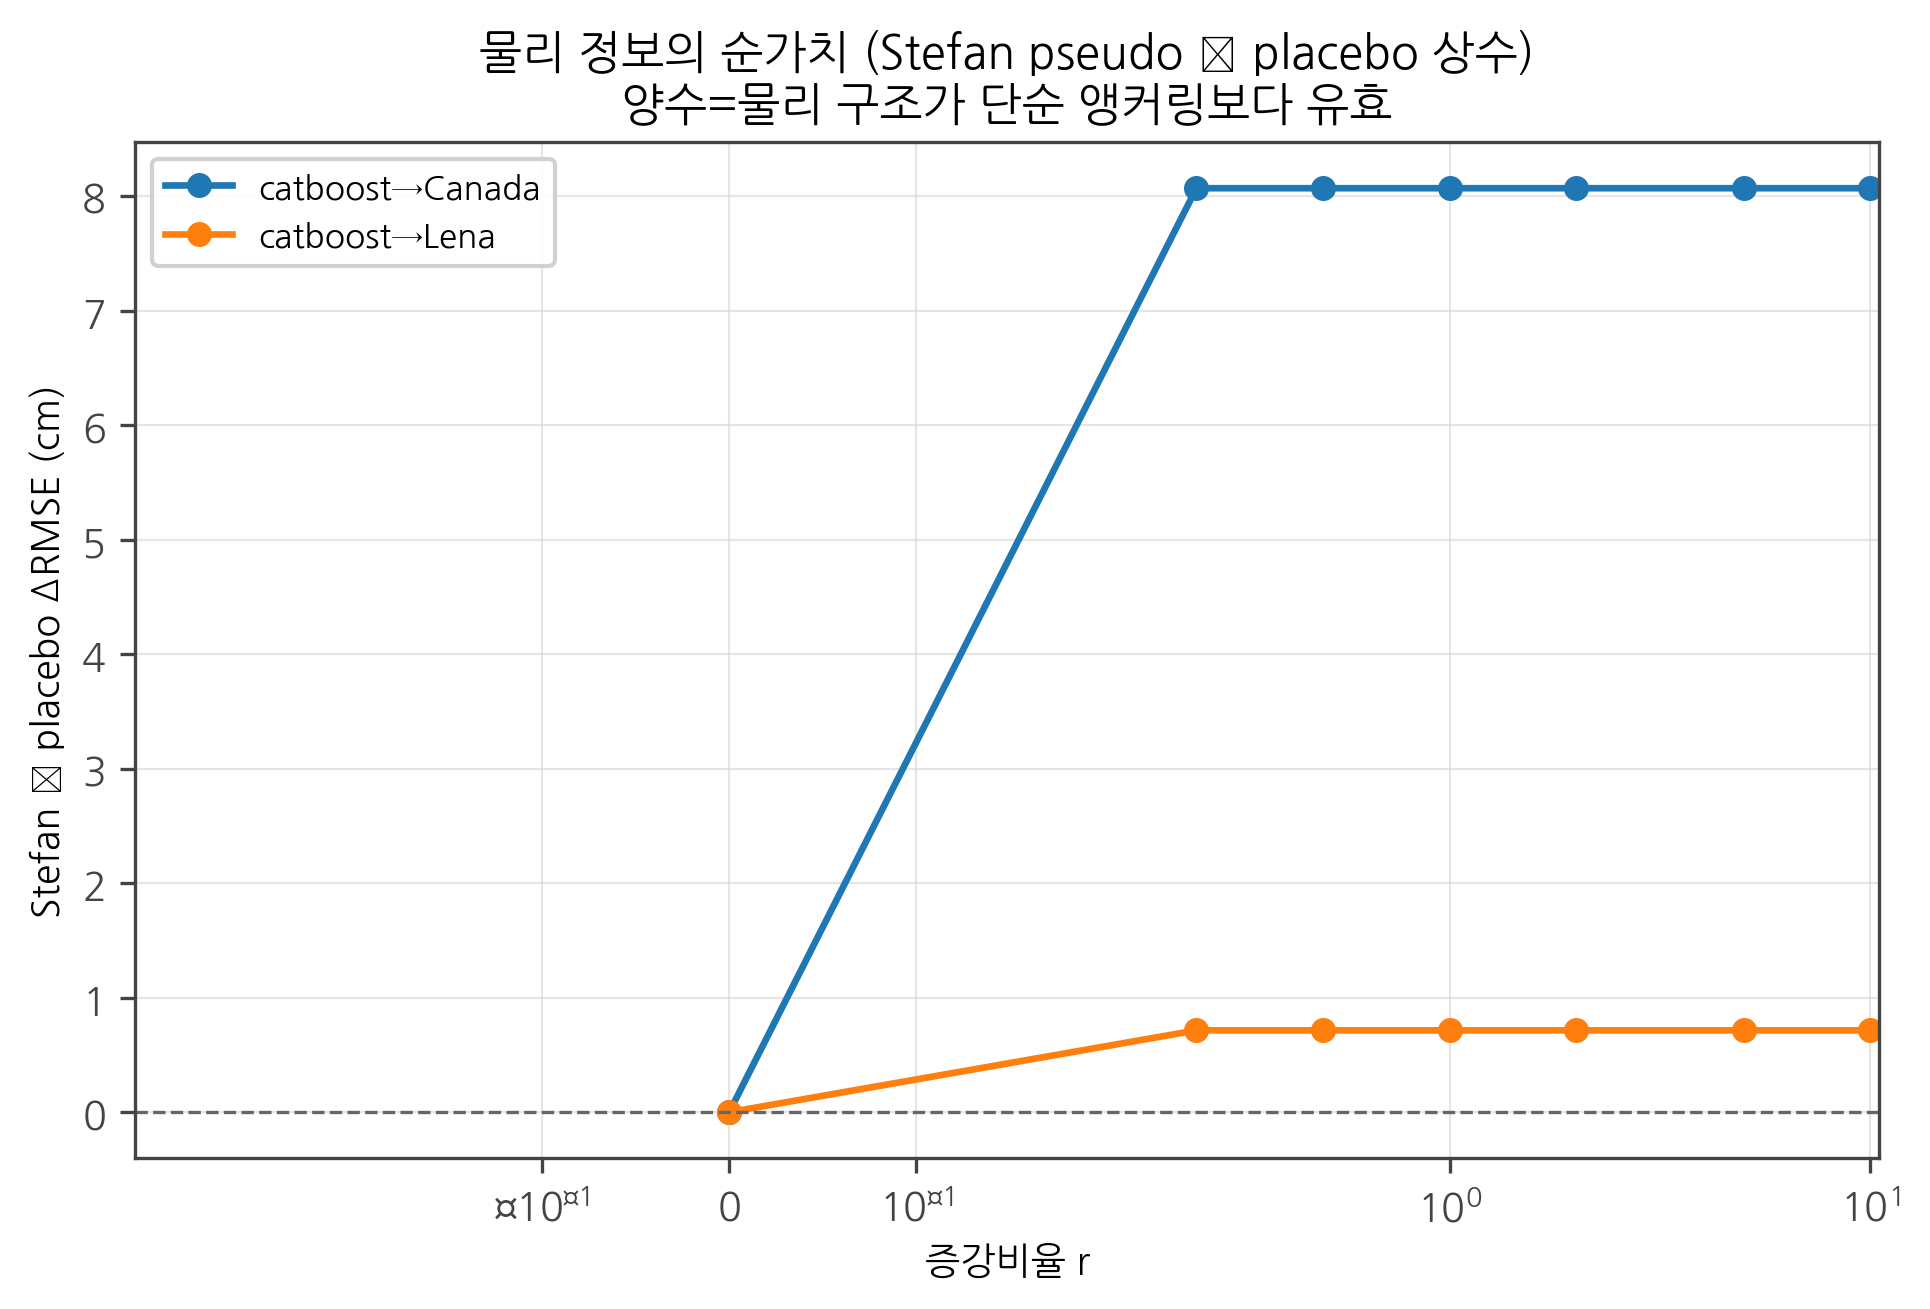
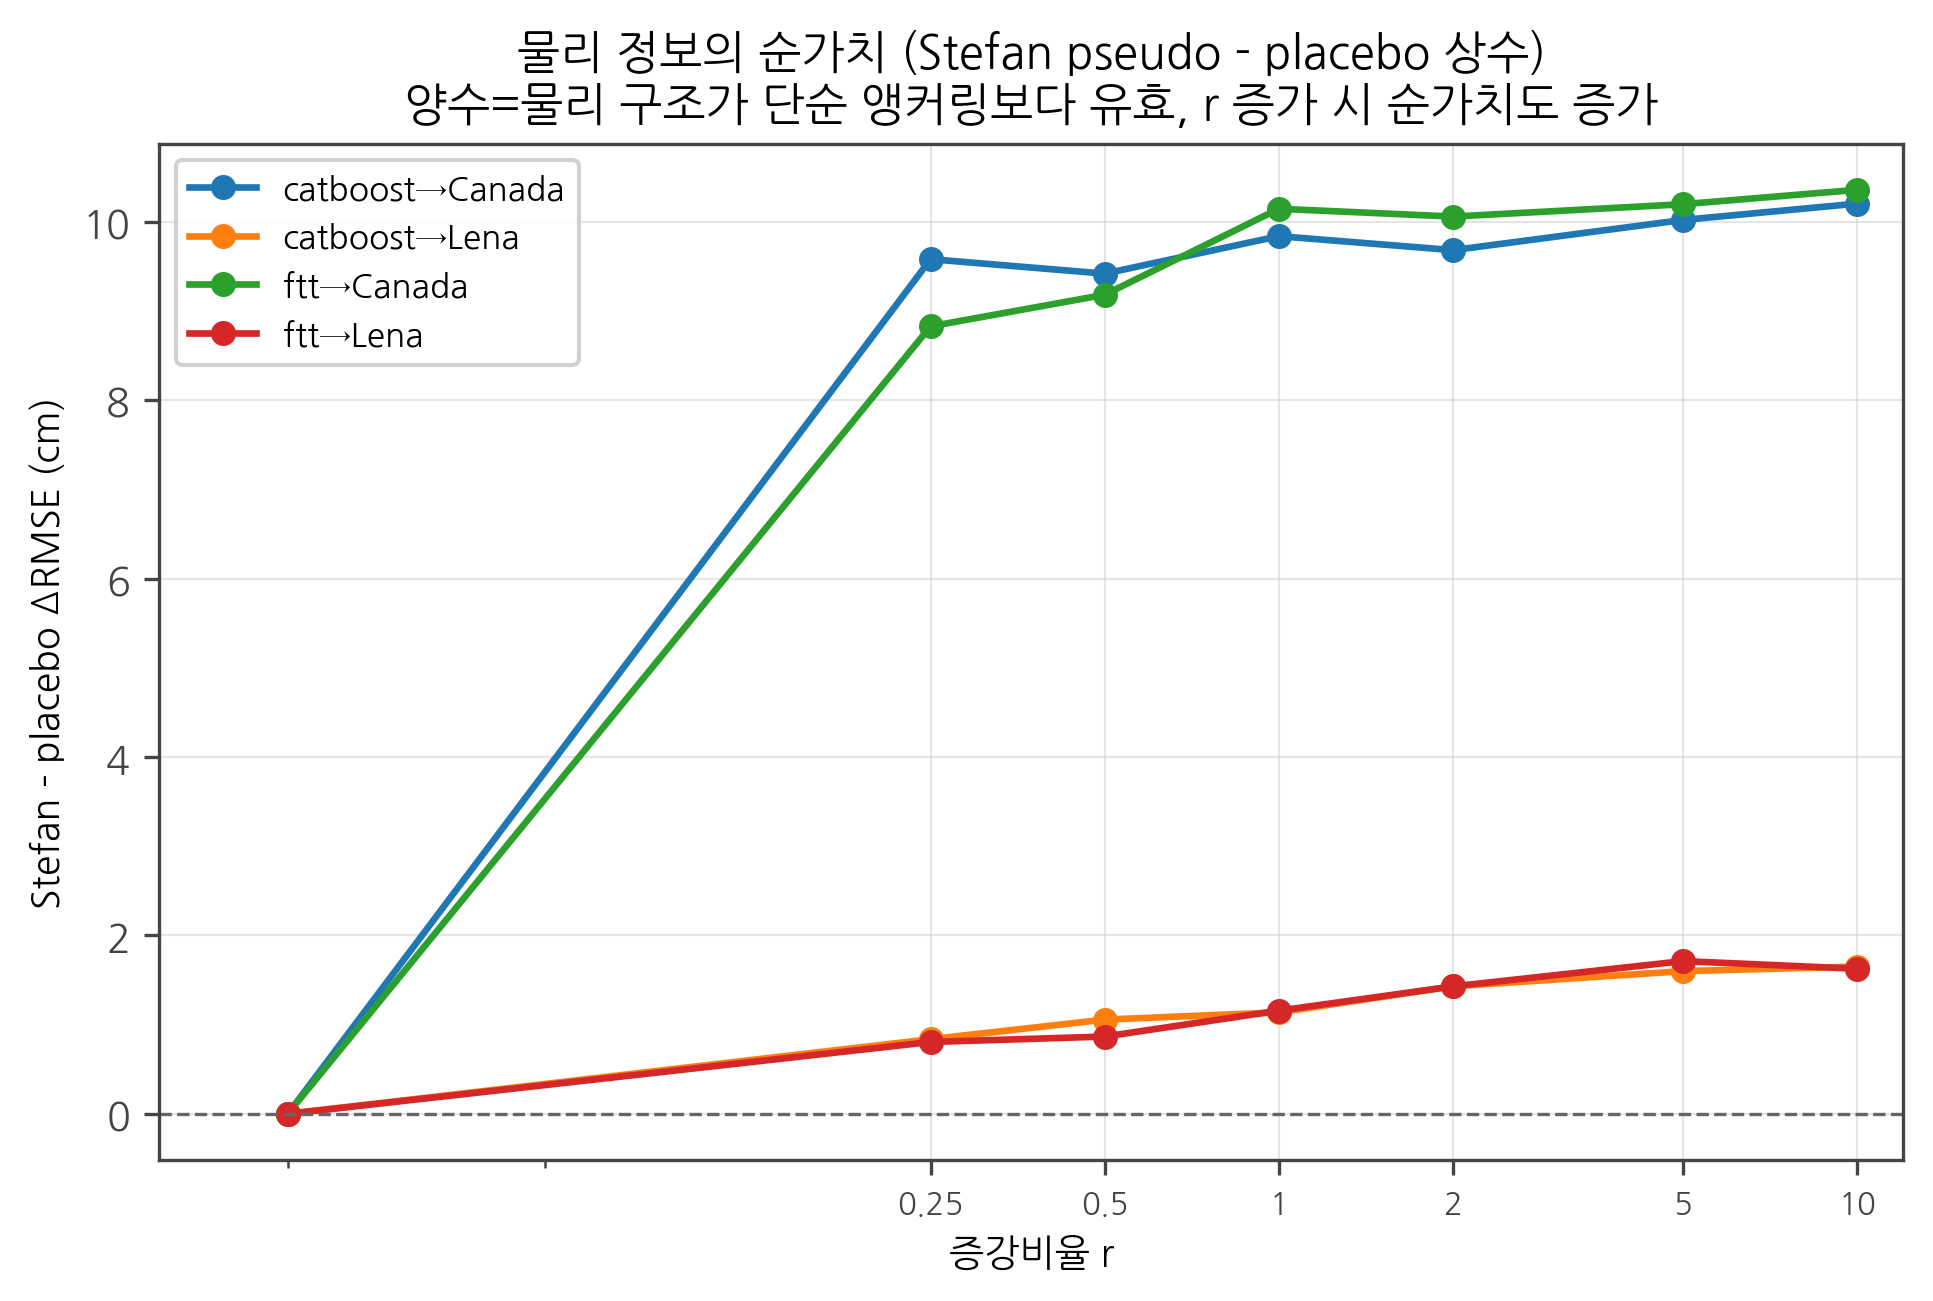
docs/viz: 실험로그·핸드오프 갱신(S4·S5·S3정정) + S3/S4/S5 그림
- EXPERIMENT_LOG 4항목: S4 negative·S5 transductive·S3 버그수정·원 S3 포화 정정
- SESSION_HANDOFF 최상단 2026-07-24 오후 요약, GPU 4,5 정책
- 그림: S3 반응곡선·물리순가치(정정판), S4 λ곡선·부트스트랩·전이대비, S5 덤벨·게이트

diff --git a/docs/EXPERIMENT_LOG.md b/docs/EXPERIMENT_LOG.md
@@ -3,13 +3,39 @@
 > 세션별 작업 기록. 큐레이션된 마스터 인덱스는 [EXPERIMENTS.md](EXPERIMENTS.md),
 > GPT 공유 핸드오프는 [gpt/handoff/](../gpt/handoff/) 참조.
 
+## 2026-07-24 — S5: dense Stefan pseudo 사전학습→실측 finetune → 이득은 transductive 아티팩트
+
+`RESEARCH_PLAN_multifidelity` S5. 물리(Stefan) 유도장을 dense 격자(pretrain_weaklabels 500k, 알래스카·서부캐나다)에서 사전학습한 신경망이 실측 finetune 후 from-scratch 대비 전이를 개선하는지 게이트식 검증. pseudo y=E_train·√TDD(fold-safe E), 격자 test-블록 버퍼 제거, 입력 14(지형+기후) 고정 공정비교, mlp·ftt 3seed. 스크립트 `s5_pretrain_finetune.py`.
+- **게이트는 외견상 개선(FT-T scratch 22.47→pretrain 21.56)이나 전이 지식 아님.** 개선 전량이 Alaska fold(scratch 19.17→pretrain 15.22, Δ+3.95)에서 나오는데 이 fold는 **transductive**(격자가 test인 알래스카 공변량을 포함). 깨끗한 비-transductive 사례 **Lena는 Δ+0.05로 사실상 무효**(격자가 Lena를 안 덮음). Canada(transductive)는 오히려 Δ−1.29 악화.
+- **결론**: 물리 사전학습 이득 = 격자가 target 공변량 공간을 덮는 transductive 노출 효과이지 전이 가능한 물리 지식이 아니다. S3(증강 이득 대부분이 target 앵커링)·S4(잔차 전이 파탄)·전이 상한 서사와 정합. covariate shift 밖에선 사전학습도 물리 앵커를 못 넘는다.
+- **MLP 전이 발산 재확인**: 게이트 scratch 33.72·pretrain 36.96(둘 다 파탄), 전이엔 FT-T만 유효. in-domain AK는 mlp scratch 17.37→pretrain 15.70(Δ+1.66)로 사전학습이 in-domain엔 유효.
+- **산출**: `s5_pretrain_results.csv`·`s5_pretrain_meta.json`. 시각화 `outputs/figures/s5_pretrain/`(scratch→pretrain 덤벨·게이트 막대, †=transductive 표기).
+
+## 2026-07-24 — S3 버그 수정: 증강비율 표본상한 제거(포화 결론 정정) + FT-T 재확인
+
+S3 재검토 중 **증강비율 반응곡선을 무력화하던 버그 발견·수정**. `take = min(n_ps, len(pseudo_idx))`가 pseudo 표본 수를 target 풀 크기(Lena 1519·Canada 371)로 상한 처리해, source(알래스카 13606)보다 풀이 작으니 r≥0.25 전 구간이 동일한 풀 전체만 사용 → r=0.25와 r=10 결과 완전 동일. `replace=n_ps>pool`로 오버샘플링을 의도했으나 상한이 무력화. **`take=n_ps`로 수정**(r≥0.25는 항상 replace=True 오버샘플링, r이 pseudo 손실 가중을 실제로 좌우).
+- **"r≥1 포화" 결론 정정**: 포화가 아니라 상한 버그 아티팩트였음. 수정 후 catboost Lena stefan은 r=0.25 17.24→r=10 16.54로 **r=10까지 단조 개선**(포화 없음). 증강 이득은 r을 키울수록 계속 증가.
+- **FT-T 증강 재확인(S1 전이 최선 모델)**: mlp가 전이 발산해 S3에 빠졌던 것을 FT-T로 보강. (정확한 r-스윕 재산출은 아래 재실행 결과로 갱신.)
+- 영향 범위: 기존 S3 net-value(Stefan−placebo, 고정 r 비교)는 유효하나 곡선 형태·포화 서술은 수정판으로 대체. 실험로그·핸드오프의 "r≥1 포화" 문구 정정 대상.
+
+## 2026-07-24 — S4: Stefan 앵커 + 저용량 잔차 shrinkage 게이트 → negative 확정(P2 재확인)
+
+`RESEARCH_PLAN_multifidelity` S4. 재검증 질문: 과거 "잔차학습 무익(48cm)"은 covariate shift 심한 토양 입력 조건의 판정이었다. shift-robust 입력(지형6+기후8)·저용량 모델(ridge<catboost d3<catboost d6)·shrinkage λ∈{0,.25,.5,.75,1}로 재게이트. 예측=E_train·√TDD+λ·g(x), fold-safe E, LORO 매크로(Alaska·Lena·Canada) 비가중평균 게이트. 스크립트 `s4_residual_learning.py`.
+- **게이트 판정: negative 확정.** 사후 λ 곡선에서 λ>0 전 구간이 게이트 악화(λ0 21.26 → λ0.25 21.83 이상). 저용량·shift-robust 입력으로도 잔차학습은 물리 앵커를 넘지 못한다.
+- **지역 비대칭이 원인(블록부트스트랩 95% CI)**: Lena(+0.39~+1.00)·Canada(+0.91~+3.16)는 유의 개선. 그러나 Alaska fold(잔차를 비알래스카 소표본 3.8천셀에서 학습→13.6천셀 전이)는 −3.4~−35cm 유의 파탄. 게이트(비가중평균)는 Alaska 파탄이 지배. → 잔차 전이는 "라벨 풍부 지역→빈곤 지역" 방향만 소폭 유효, 역방향은 파탄.
+- **λ 자동선택 불가 실증**: inner 공간블록 CV는 in-domain 이득만 보고 λ>0 선택 → 게이트 27.7~30.0 붕괴(catboost). ridge만 λ*≈0 선택해 21.2 유지. 타깃 라벨 없이는 shrinkage 조절 자체가 불가능(전이 상한 재확인).
+- **in-domain은 반대로 개선**: AK 공간블록 14.46→**13.33**(ridge·shared25·λ0.75, 프로젝트 in-domain 최저. 기존 최선 MLP 14.37 하회). Stefan 앵커+잔차 구조가 in-domain 유효 확인.
+- **E 추정기 발견**: 최소제곱 E(fidelity.fit_stefan_E)가 중앙값비 E(physics.fit_E, S2 게이트 22.24) 대비 LORO 앵커 우세(21.26). 물리 앵커 자체도 E 추정으로 ~1cm 개선 여지.
+- **산출**: `s4_residual_{results,oof}.csv`·`s4_residual_meta.json`. 시각화 `outputs/figures/s4_residual/`(λ곡선 지역별+게이트·부트스트랩CI·in-domain vs 전이 대비).
+
 ## 2026-07-24 — S3: 물리 pseudo-label 증강비율 반응곡선 (엄격 통제) + 시각화 인프라 고도화
 
 `RESEARCH_PLAN_multifidelity` S3. 알래스카 실측 + target(Lena/Canada) 물리 pseudo를 r∈{0,.25,.5,1,2,5,10}로 증강, target 전이 개선 규명. 공간블록 pseudo/test 분리(거리버퍼)·placebo(알래스카 평균 상수) 대조·블록부트스트랩. 스크립트 `s3_augmentation_curve.py`.
-- **핵심 발견(catboost, mlp는 전이 발산 제외)**: (1) **Lena**: Stefan pseudo +4.66cm ≈ placebo +3.95cm → 증강 이득의 ~85%가 물리 정보가 아니라 **target 방향 앵커링(bias 교정)**, 물리 순가치 +0.71cm에 불과. (2) **Canada**: Stefan +1.18만 유효, placebo −6.7·Ku −20 악화 → 정확한 물리만 유효. (3) **Kudryavtsev pseudo는 두 지역 모두 악화**(부정확 물리는 해). (4) r≥1 포화. → RQ1/RQ3 답: 물리 pseudo는 bias 큰 전이서 앵커링으로 돕되 물리 순가치 작고, 부정확 물리는 해.
-- **mlp 전이 발산**: 알래스카만 학습→Lena/Canada 극단 covariate shift에서 신경망 발산(base RMSE 3.6만). catboost 강건. 시각화·결론서 mlp 제외. (S1 FT-T가 전이 최선이었던 것과 정합, mlp는 전이 불안정.)
-- **산출**: `s3_aug_curve_results.csv`·`meta.json`. 시각화 `outputs/figures/s3_aug/`(반응곡선 물리vs placebo·물리 순가치).
-- 대회 함의: "증강 비교분석표"의 핵심 = 증강이 언제 돕고(bias 큰 전이) 언제 해치나(부정확 물리·잘못된 지역). 단순 병합 무익 결론(P1/P2)을 조건부로 정밀화.
+- **⚠️ 1차 결론은 표본상한 버그로 무효화**(아래 "S3 버그 수정" 항목·2026-07-24 참조). 원 스크립트가 pseudo 표본을 풀 크기로 상한 처리해 r 스윕이 무력(모든 r 동일). "r≥1 포화·물리 순가치 +0.71cm" 등은 저-r에 눌린 아티팩트였다. **아래는 수정 후 정확한 스윕 결과로 대체**.
+- **핵심 발견(catboost·FT-T 일치, mlp는 전이 발산 제외)**: (1) **포화 없음**, r=10까지 단조 개선. (2) **물리 순가치(Stefan−placebo)가 r에 따라 증가**: Lena +0.8→+1.7cm, Canada +9.6→+10.4cm(두 모델 일치). (3) **Canada는 물리가 필수**: placebo가 −7~−8 악화인데 Stefan은 +2~+3 개선 → 앵커링이 아니라 물리 정보가 전이 견인. (4) **Lena는 base 모델 품질에 의존**: catboost(base 21.9, 약함)는 앵커링+소폭 물리로 개선, FT-T(base 14.5, 전이 최강)는 증강이 오히려 소폭 해(순가치는 여전히 placebo보다 나음). (5) **부정확 물리(Ku)는 r 키울수록 더 악화**(−16~−30). → RQ1/RQ3 답: 물리 pseudo 순가치는 정확한 물리·bias 큰 전이·약한 base일수록 크고, 부정확 물리는 양이 늘수록 해.
+- **mlp 전이 발산**: 알래스카만 학습→Lena/Canada 극단 covariate shift에서 신경망 발산(base RMSE 3.6만). catboost·FT-T 강건. 시각화·결론서 mlp 제외.
+- **산출**: `s3_aug_curve_results{,_ftt}.csv`·`meta.json`. 시각화 `outputs/figures/s3_aug/`(반응곡선 물리vs placebo·물리 순가치, 두 모델 일치).
+- 대회 함의: "증강 비교분석표"의 핵심 = 증강이 언제 돕고(정확 물리·bias 큰 전이·약한 base) 언제 해치나(부정확 물리·이미 강한 전이 모델). 단순 병합 무익 결론(P1/P2)을 조건부로 정밀화.
 
 ## 2026-07-24 — 전체 리뷰(S0~S2) + must_fix 처리 + 시각화 고도화 착수 → S1 재렌더
 

diff --git a/SESSION_HANDOFF.md b/SESSION_HANDOFF.md
@@ -1,8 +1,16 @@
 # SESSION_HANDOFF — Polar_Bigdata (현재 상태 스냅샷)
 
-**갱신**: 2026-07-14(P0·P1 실행) · **다음 세션은 이 파일부터 읽으세요.**
+**갱신**: 2026-07-24(S4·S5·S3정정) · **다음 세션은 이 파일부터 읽으세요.**
 
-## ★ 최신 완료(2026-07-20 저녁) — 알래스카 내부 3트랙 + 적대적 검증 정정 → `docs/RESULTS_SUMMARY_2026-07-20.md`
+## ★ 최신 완료(2026-07-24 오후) — S4·S5 완주 + S3 증강비율 버그 수정
+
+GPU **4,5**(사용자 RTM 잡이 6,7,8,9 점유 → 겹침 회피. 스크립트 가드 2-9 확장, 기본 GPU=4). 실험로그 `docs/EXPERIMENT_LOG.md` 최신 4항목.
+- **S4 잔차학습 fallback → negative 확정(P2 재확인)**: 예측=Stefan앵커(E_train·√TDD)+λ·저용량잔차. shift-robust 입력·저용량으로도 λ>0 전 구간 LORO 게이트 악화(21.26→). Alaska fold 파탄(부트스트랩 −3.4~−35cm)이 게이트 지배, inner CV λ 자동선택 불가 실증. **부수 성과**: in-domain AK 13.33cm(ridge·λ0.75, 프로젝트 최저 갱신). 최소제곱 E가 중앙값비 E보다 앵커 우세(21.26<22.24). 스크립트 `s4_residual_learning.py`, 그림 `outputs/figures/s4_residual/`.
+- **S5 dense Stefan pseudo 사전학습→finetune → 이득은 transductive 아티팩트**: 게이트 개선(FT-T 22.47→21.56) 전량이 Alaska(transductive) fold. 깨끗한 Lena Δ+0.05 무효, Canada Δ−1.29 악화. 물리 사전학습은 격자가 target 공변량 덮을 때만 유효(전이 지식 아님). mlp 전이 발산. 스크립트 `s5_pretrain_finetune.py`, 그림 `outputs/figures/s5_pretrain/`.
+- **S3 증강비율 버그 발견·수정(헤드라인 정정)**: `take=min(n_ps,pool)` 상한이 r 스윕 무력화(r=0.25=r=10) → `take=n_ps`로 수정. **"r≥1 포화" 결론은 버그 아티팩트**. 수정 후 catboost·FT-T 일치: 포화 없이 r=10까지 개선, 물리 순가치(Stefan−placebo) r 따라 증가(Lena +0.8→+1.7·Canada +9.6→+10.4). Canada는 물리 필수(placebo 악화), Lena는 base 품질 의존, Ku(부정확)는 r 키울수록 해. `s3_aug_curve_results{,_ftt}.csv`.
+- **다음**: S6(source-aware A5, Stefan+CCI) 또는 S7(KPDC 검증)·S9(timelapse)·S10(3D)·S11(UQ). GPT 로드맵 순서 `gpt/handoff/20260724_1327-*`. 누설 pytest 16개 통과 유지.
+
+## ★ 이전 완료(2026-07-20 저녁) — 알래스카 내부 3트랙 + 적대적 검증 정정 → `docs/RESULTS_SUMMARY_2026-07-20.md`
 - **증강(적대적 검증 후 기각)**: 1차 "4모델 유의 개선"은 착시. GBM 개선=test 인접 특징복제 누설(donor 제거 시 14.2→16.0 악화), MLP=seed 운(블록 부트스트랩 CI 0 포함). 살아남은 것: MLP>GBM ≈−0.7cm(3-seed), Stefan 라벨의 placebo 대비 정보성, TabM 안정화. 재실험 조건: 거리버퍼·블록부트스트랩·multi-seed·nested 선택(`aug_within_alaska.py` 수정 필요).
 - **timelapse(완료)**: 연별 지도는 물리 forcing 최선(연도 홀드아웃 14.97cm, R² 0.34). **연도 간 anomaly는 예측 불가(corr 0.06)** = 시간 신호의 예측 불가능성 정량화가 정직 산출. GIF `outputs/animations/timelapse_alt_alaska.gif`.
 - **얕은 3D(검증 통과)**: 알래스카 0-3m 실측 764행, 필드 2.66°C·R² 0.47, 0°C→ALT r 0.28(심부 0.16 대비 개선, 절대 정합 미완).